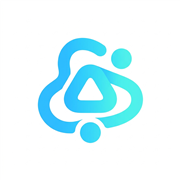
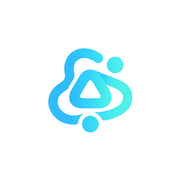
fix: resolve production LLM Vectorize auth by attaching X-API-Key and pointing to proper apiBase

Changed region(s): [[0.1944, 0.1944, 0.8056, 0.8056], [0.4722, 0.4167, 0.5278, 0.4722]]

diff --git a/src/components/WikiEditor.tsx b/src/components/WikiEditor.tsx
@@ -165,12 +165,15 @@ function WikiEditorCore({ nodeId, nodeTitle, initialBlocks, onChange, onClose, a
                 try {
                   setIsLlamaThinking(true);
                   const docText = await editor.blocksToMarkdownLossy(editor.document);
-                  const basePath = typeof window !== 'undefined' && window.location.pathname.startsWith('/PORTFOLIO-HCHPS') ? '/PORTFOLIO-HCHPS' : '';
+                  const apiBase = (typeof window !== 'undefined' && (window.location.hostname === 'localhost' || window.location.hostname === '127.0.0.1')) ? '' : 'https://portfolio-hchps.pages.dev';
+                  const storedKey = localStorage.getItem('hchps_master_key');
+                  const headers: Record<string, string> = { 'Content-Type': 'application/json' };
+                  if (storedKey) headers['X-API-Key'] = storedKey;
                   
                   // 1. Vectorize 검색하여 의미론적 유사 노드 찾기
-                  const res = await fetch(`${basePath}/api/semantic-search`, {
+                  const res = await fetch(`${apiBase}/api/semantic-search`, {
                     method: 'POST',
-                    headers: { 'Content-Type': 'application/json' },
+                    headers,
                     body: JSON.stringify({ query: docText.substring(0, 500), limit: 3 })
                   });
                   if (!res.ok) {

diff --git a/src/components/SearchResultModal.tsx b/src/components/SearchResultModal.tsx
@@ -61,9 +61,13 @@ export function SearchResultModal({ isOpen, onClose, query, results: localResult
         // 1. Vectorize Semantic Search
         let retrievedDocs: VectorResult[] = [];
         try {
+          const storedKey = localStorage.getItem('hchps_master_key');
+          const headers: Record<string, string> = { 'Content-Type': 'application/json' };
+          if (storedKey) headers['X-API-Key'] = storedKey;
+
           const searchRes = await fetch(`${apiBase}/api/semantic-search`, {
             method: 'POST',
-            headers: { 'Content-Type': 'application/json' },
+            headers,
             body: JSON.stringify({ query, limit: 3 })
           });
           if (searchRes.ok) {

diff --git a/src/components/Sidebar.tsx b/src/components/Sidebar.tsx
@@ -91,7 +91,7 @@ export function Sidebar({ activeModule, onModuleChange, taskStats, quickInput }:
                 aria-label={item.label}
               >
                 <Icon 
-                  className="w-6 h-6" 
+                  className="w-6 h-6 scale-[0.8] transition-transform duration-200" 
                   strokeWidth={isActive ? 2.5 : 2} 
                 />
                 

diff --git a/resize_icon.py b/resize_icon.py
@@ -1,0 +1,29 @@
+from PIL import Image
+import os
+
+def scale_icon(filepath, scale=0.8):
+    if not os.path.exists(filepath):
+        print(f"Skipping {filepath}, does not exist.")
+        return
+    
+    img = Image.open(filepath).convert("RGBA")
+    w, h = img.size
+    
+    new_w = int(w * scale)
+    new_h = int(h * scale)
+    
+    resized = img.resize((new_w, new_h), Image.Resampling.LANCZOS)
+    
+    # Create new transparent canvas
+    canvas = Image.new("RGBA", (w, h), (255, 255, 255, 0))
+    
+    # Paste resized into center
+    paste_x = (w - new_w) // 2
+    paste_y = (h - new_h) // 2
+    canvas.paste(resized, (paste_x, paste_y), mask=resized)
+    
+    canvas.save(filepath)
+    print(f"Scaled {filepath} successfully.")
+
+scale_icon("src/app/icon.png")
+scale_icon("src/app/apple-icon.png")
